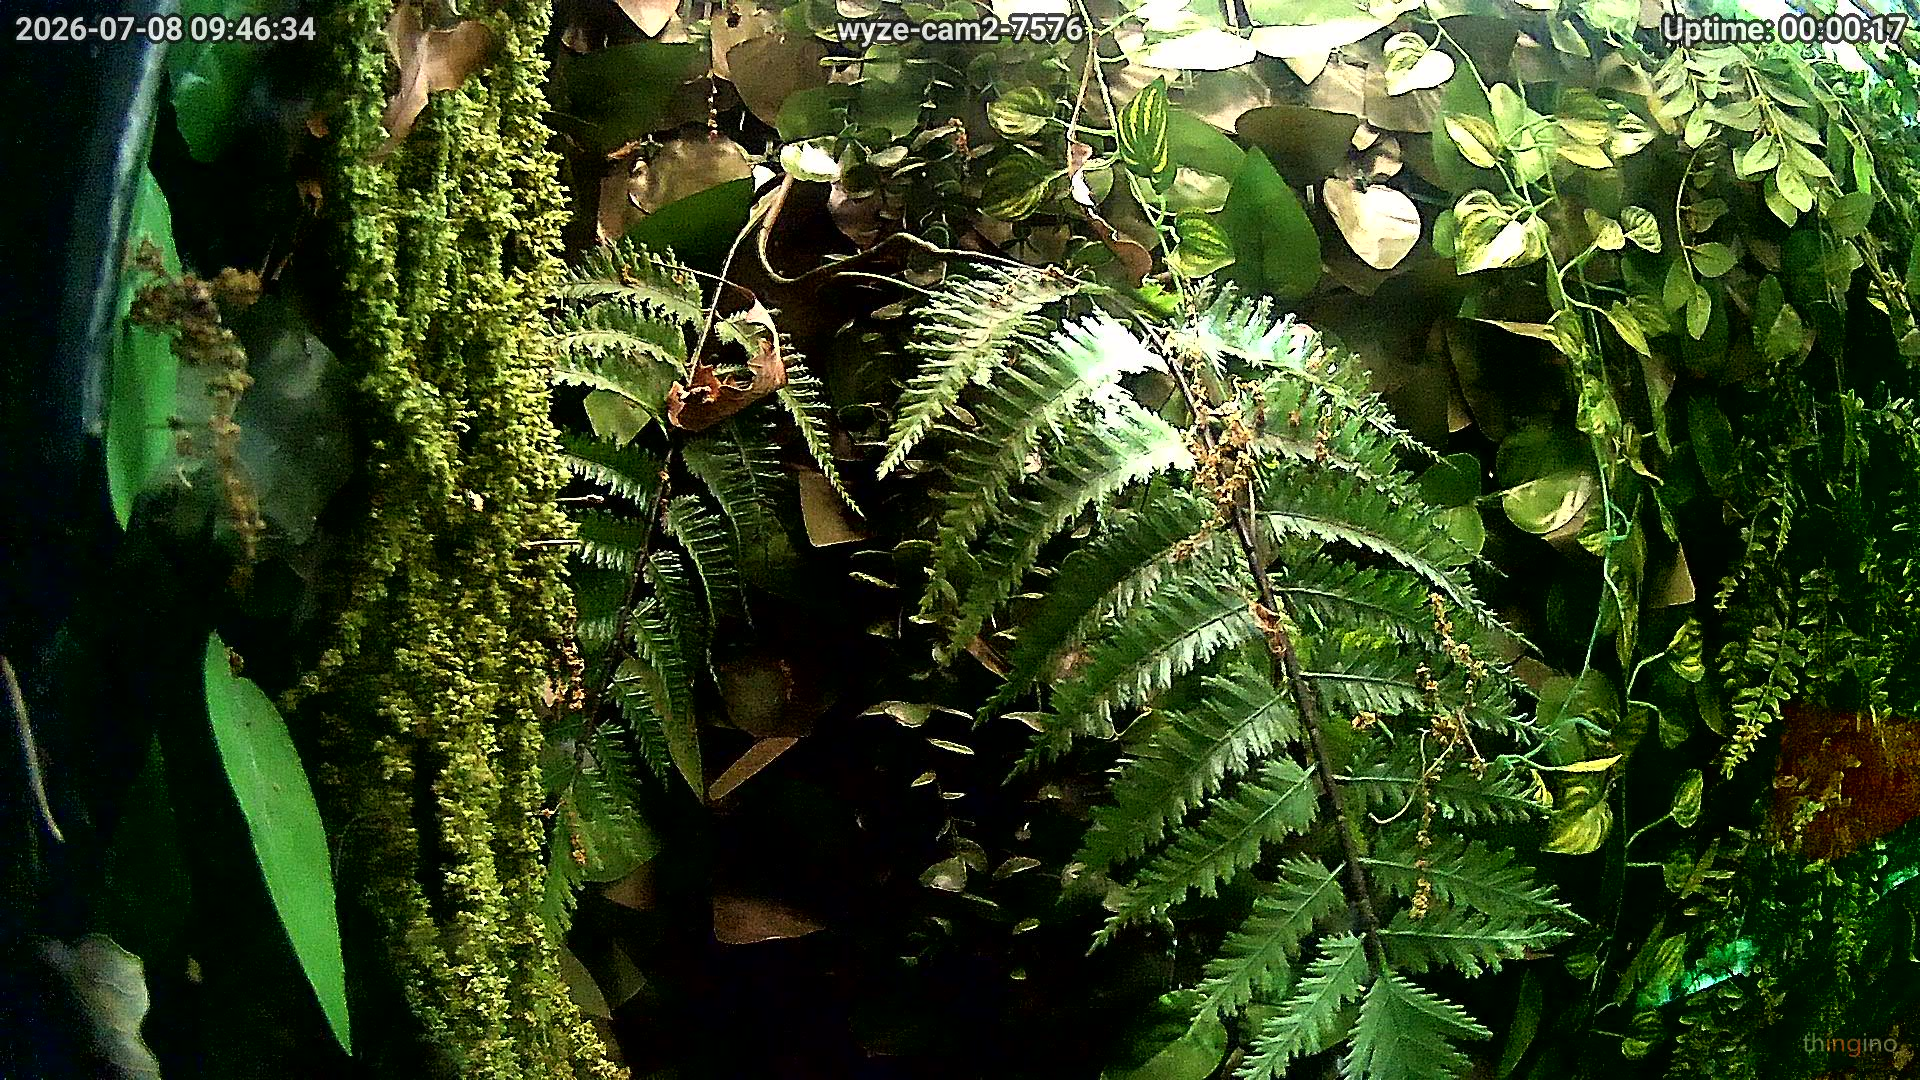
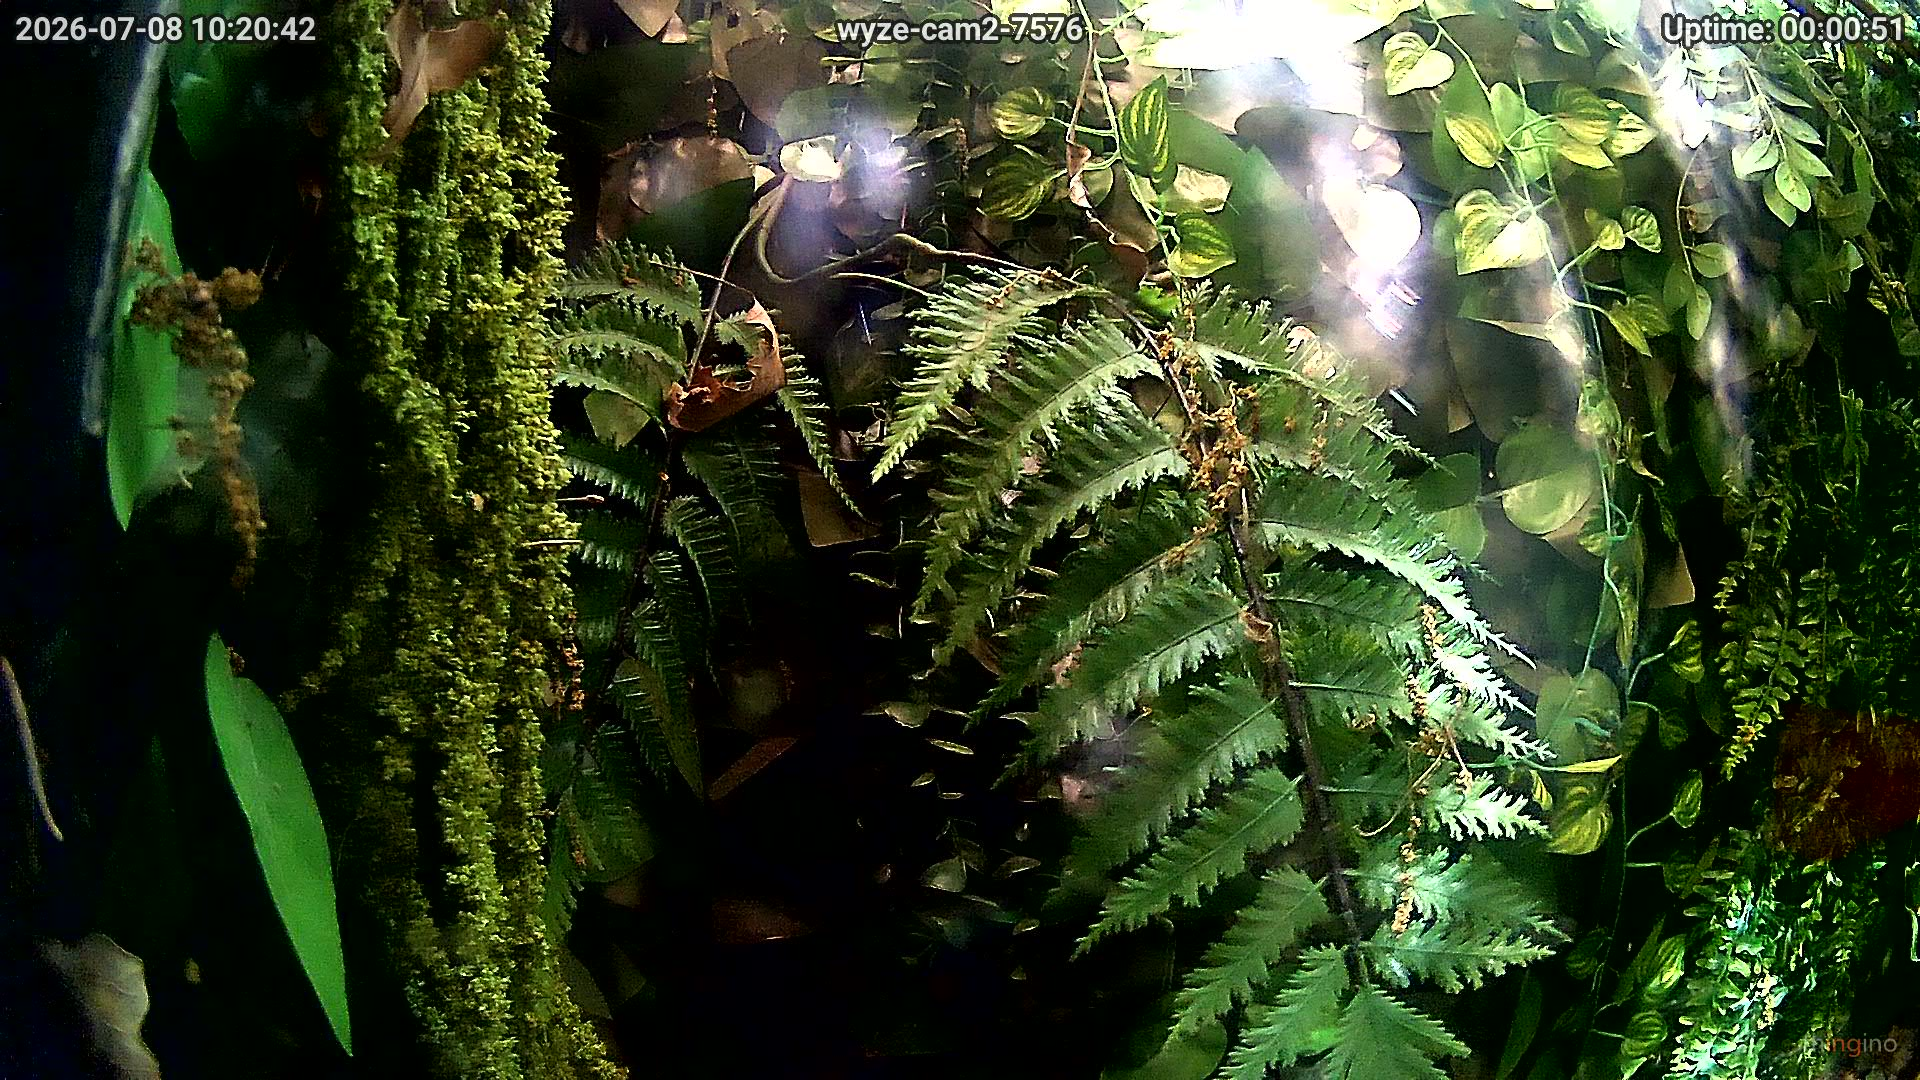
asd

diff --git a/scripts/skybg.swift b/scripts/skybg.swift
@@ -19,6 +19,11 @@
 //                     axis; recombined before blurring. 0 = off.
 //   CHANNEL_SHIFT_ANGLE : axis in degrees: 0 = R left / B right (default 0)
 //                     (left-to-right), 90 = R top / B bottom.
+//   CHANNEL_SHIFT_SCHEDULE : comma-separated HH:MM:value control points
+//                     that define a cosine-eased day curve for the shift
+//                     magnitude. When set, overrides CHANNEL_SHIFT.
+//                     Points wrap across midnight. Angle is unchanged.
+//                     Example: "06:00:10,12:00:110,20:00:40,23:30:10"
 //   BLEND_WEIGHTS   : comma list of frame weights, most-recent  (default "1")
 //                     first; auto-normalized. List length = N
 //                     means current + (N-1) past frames are
@@ -82,6 +87,7 @@ struct Config {
     let brightness: Double
     let channelShift: Double
     let channelShiftAngle: Double
+    let channelShiftSchedule: [(minutes: Int, value: Double)]
     let blendWeights: [Double]
     let noApply: Bool
 
@@ -115,6 +121,20 @@ struct Config {
             brightness: Double(env["COLOR_BRIGHTNESS"] ?? "0.0") ?? 0.0,
             channelShift: Double(env["CHANNEL_SHIFT"] ?? "0") ?? 0,
             channelShiftAngle: Double(env["CHANNEL_SHIFT_ANGLE"] ?? "0") ?? 0,
+            channelShiftSchedule: {
+                guard let raw = env["CHANNEL_SHIFT_SCHEDULE"], !raw.isEmpty else { return [] }
+                var pts: [(Int, Double)] = []
+                for token in raw.split(separator: ",") {
+                    let parts = token.trimmingCharacters(in: .whitespaces).split(separator: ":")
+                    guard parts.count == 3,
+                          let h = Int(parts[0]), let m = Int(parts[1]), let v = Double(parts[2]),
+                          (0...23).contains(h), (0...59).contains(m) else {
+                        continue
+                    }
+                    pts.append((h * 60 + m, v))
+                }
+                return pts.sorted { $0.0 < $1.0 }
+            }(),
             blendWeights: {
                 let parsed = (env["BLEND_WEIGHTS"] ?? "1")
                     .split(separator: ",")
@@ -271,6 +291,35 @@ func makeBlurMask(stops: [Double], width: CGFloat, height: CGFloat) -> CIImage {
     return CIImage(cgImage: cg)
 }
 
+// Evaluate the shift schedule at the current wall-clock time using cosine easing
+// between adjacent control points. Points are sorted by minute-of-day and wrap
+// across midnight so the curve is continuous at 00:00.
+func resolvedChannelShift(schedule: [(minutes: Int, value: Double)], fallback: Double) -> Double {
+    guard schedule.count >= 2 else { return schedule.first.map { $0.value } ?? fallback }
+    let now = Calendar.current.dateComponents([.hour, .minute], from: Date())
+    let currentMin = (now.hour ?? 0) * 60 + (now.minute ?? 0)
+    // Find the surrounding pair, wrapping across midnight.
+    var lo = schedule.last!
+    var hi = schedule.first!
+    for i in 0..<schedule.count {
+        let pt = schedule[i]
+        if pt.minutes <= currentMin {
+            lo = pt
+            hi = schedule[(i + 1) % schedule.count]
+        }
+    }
+    // Span in minutes, wrapping midnight.
+    let span = hi.minutes > lo.minutes
+        ? Double(hi.minutes - lo.minutes)
+        : Double(hi.minutes + 1440 - lo.minutes)
+    let elapsed = hi.minutes > lo.minutes
+        ? Double(currentMin - lo.minutes)
+        : Double(currentMin >= lo.minutes ? currentMin - lo.minutes : currentMin + 1440 - lo.minutes)
+    let t = span > 0 ? elapsed / span : 0
+    let smooth = (1 - cos(t * Double.pi)) / 2
+    return lo.value + smooth * (hi.value - lo.value)
+}
+
 // Split into R/G/B, translate R by -shift and B by +shift along the angle axis
 // (0deg = R left / B right, 90deg = R top / B bottom; screen-down convention),
 // then recombine additively. Classic chromatic aberration: identical to the
@@ -311,28 +360,6 @@ func channelShift(_ img: CIImage, shift: Double, angleDeg: Double) -> CIImage {
     return add(rOnly, add(bOnly, gOnly)).cropped(to: img.extent)
 }
 
-// The wallpaper agent renders every image it's handed into a decompressed BMP
-// in its container cache and never prunes it (~14 MB per set per display; this
-// is what grew to 340 GB). Deleting entries older than 5 minutes is safe:
-// in-use files stay mapped by WindowServer after unlink, and the agent
-// regenerates on demand.
-func cleanupWallpaperAgentCache(olderThan maxAge: TimeInterval = 300) {
-    let fm = FileManager.default
-    let dir = fm.homeDirectoryForCurrentUser.appendingPathComponent(
-        "Library/Containers/com.apple.wallpaper.agent/Data/Library/Caches/com.apple.wallpaper.caches/extension-com.apple.wallpaper.extension.image")
-    guard let entries = try? fm.contentsOfDirectory(
-        at: dir, includingPropertiesForKeys: [.contentModificationDateKey]) else { return }
-    let cutoff = Date().addingTimeInterval(-maxAge)
-    var removed = 0
-    for url in entries where url.pathExtension == "bmp" {
-        let mod = (try? url.resourceValues(forKeys: [.contentModificationDateKey]))?.contentModificationDate
-        if let mod, mod < cutoff {
-            try? fm.removeItem(at: url)
-            removed += 1
-        }
-    }
-    if removed > 0 { log("info", "pruned \(removed) stale wallpaper-agent cache bmp(s)") }
-}
 
 func cleanupOldCycles(in dir: URL, keep: Set<URL>) {
     let fm = FileManager.default
@@ -384,7 +411,7 @@ func archiveSourceFrame(_ data: Data, hashHex: String, cfg: Config) {
     }
 }
 
-func processCanvas(src: CIImage, monitors: [Monitor], cfg: Config) -> [(Monitor, URL)] {
+func processCanvas(src: CIImage, monitors: [Monitor], cfg: Config, channelShift shift: Double) -> [(Monitor, URL)] {
     let srcExt = src.extent
     guard srcExt.height > cfg.cropTop else { die("RAW_CROP_TOP \(cfg.cropTop) >= source height \(srcExt.height)") }
 
@@ -431,8 +458,8 @@ func processCanvas(src: CIImage, monitors: [Monitor], cfg: Config) -> [(Monitor,
         working = adjusted
     }
 
-    if cfg.channelShift != 0 {
-        working = channelShift(working, shift: cfg.channelShift, angleDeg: cfg.channelShiftAngle)
+    if shift != 0 {
+        working = channelShift(working, shift: shift, angleDeg: cfg.channelShiftAngle)
     }
 
     let canvas: CIImage
@@ -591,9 +618,11 @@ if cfg.blendWeights.count > 1 {
 let monitors = detectMonitors()
 guard !monitors.isEmpty else { die("no displays detected") }
 log("info", "displays: " + monitors.map { "\($0.label)#\($0.id) \($0.widthPx)x\($0.heightPx)" }.joined(separator: ", "))
-log("info", "process fit=\(cfg.fit) anchor=\(cfg.anchor) blur=\(cfg.blurStops) sat=\(cfg.saturation) bri=\(cfg.brightness) crop_top=\(Int(cfg.cropTop)) shift=\(cfg.channelShift)@\(cfg.channelShiftAngle)deg")
+let effectiveShift = resolvedChannelShift(schedule: cfg.channelShiftSchedule, fallback: cfg.channelShift)
+let shiftDesc = cfg.channelShiftSchedule.isEmpty ? "\(effectiveShift)" : "\(String(format: "%.1f", effectiveShift)) (scheduled)"
+log("info", "process fit=\(cfg.fit) anchor=\(cfg.anchor) blur=\(cfg.blurStops) sat=\(cfg.saturation) bri=\(cfg.brightness) crop_top=\(Int(cfg.cropTop)) shift=\(shiftDesc)@\(cfg.channelShiftAngle)deg")
 
-let outputs = processCanvas(src: src, monitors: monitors, cfg: cfg)
+let outputs = processCanvas(src: src, monitors: monitors, cfg: cfg, channelShift: effectiveShift)
 
 if cfg.noApply {
     log("info", "SKYBG_NO_APPLY=1, skipping wallpaper set")
@@ -613,7 +642,6 @@ if cfg.noApply {
     }
     if let err = firstErr { die(err) }
     cleanupOldCycles(in: cfg.outputDir, keep: Set(outputs.map { $0.1 }))
-    cleanupWallpaperAgentCache()
 }
 
 // Rolling ring buffer: shift prev-(i-1) → prev-i for i = N-1 down to 2, then